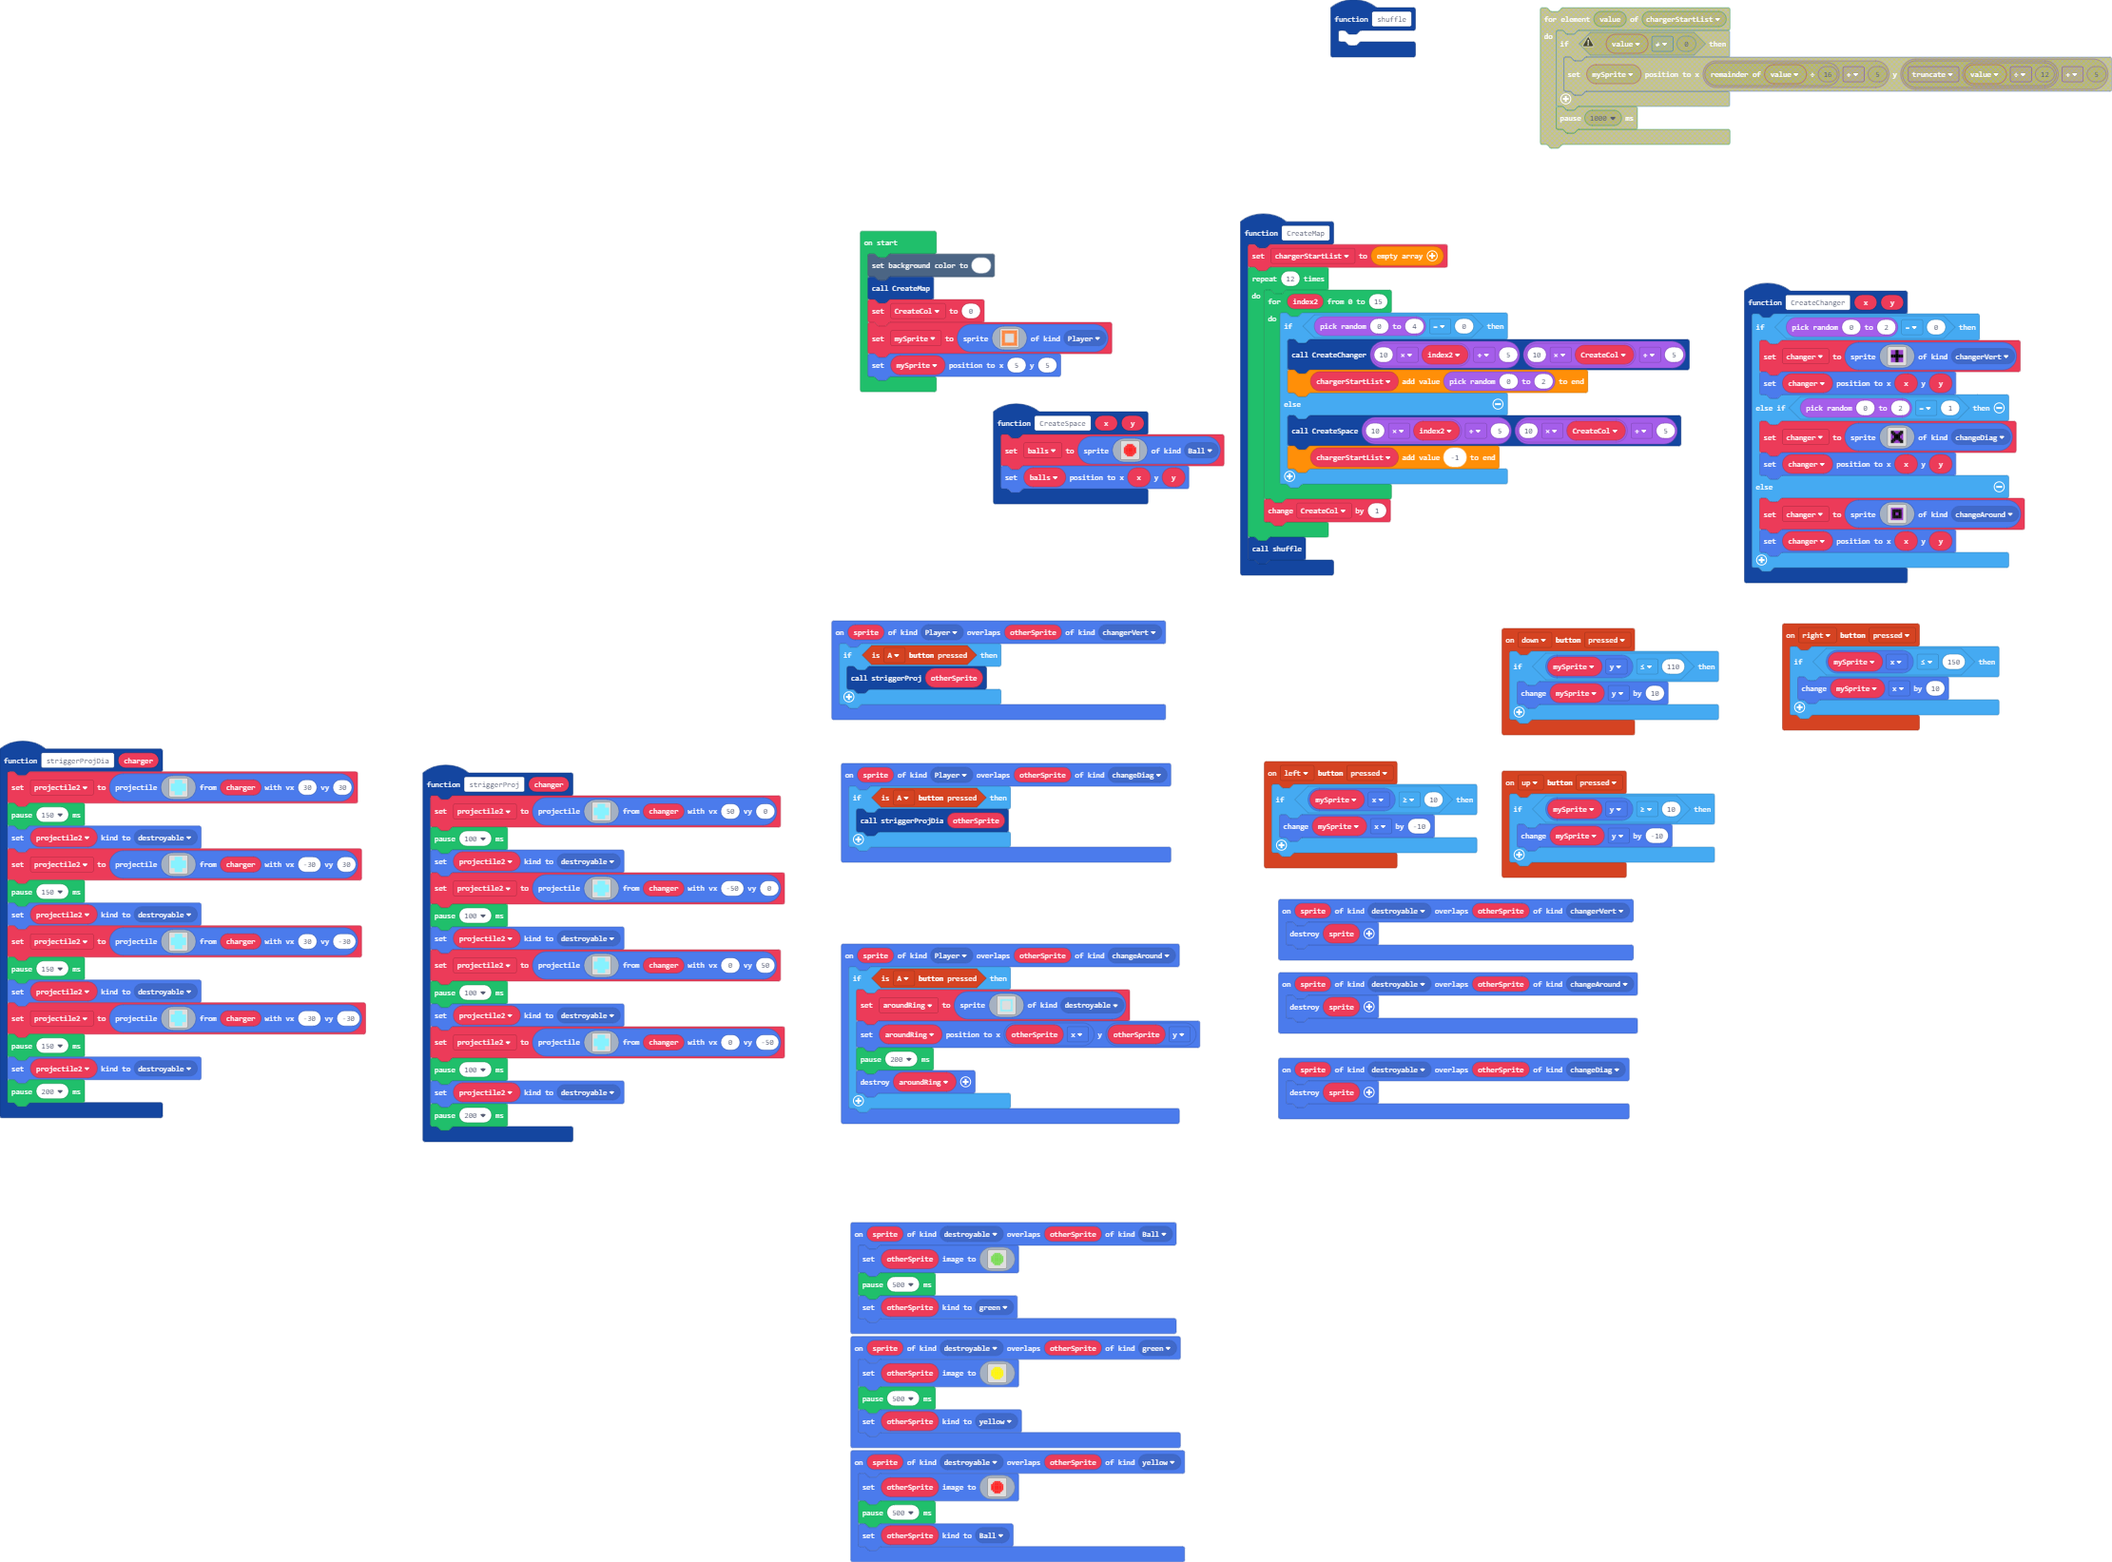
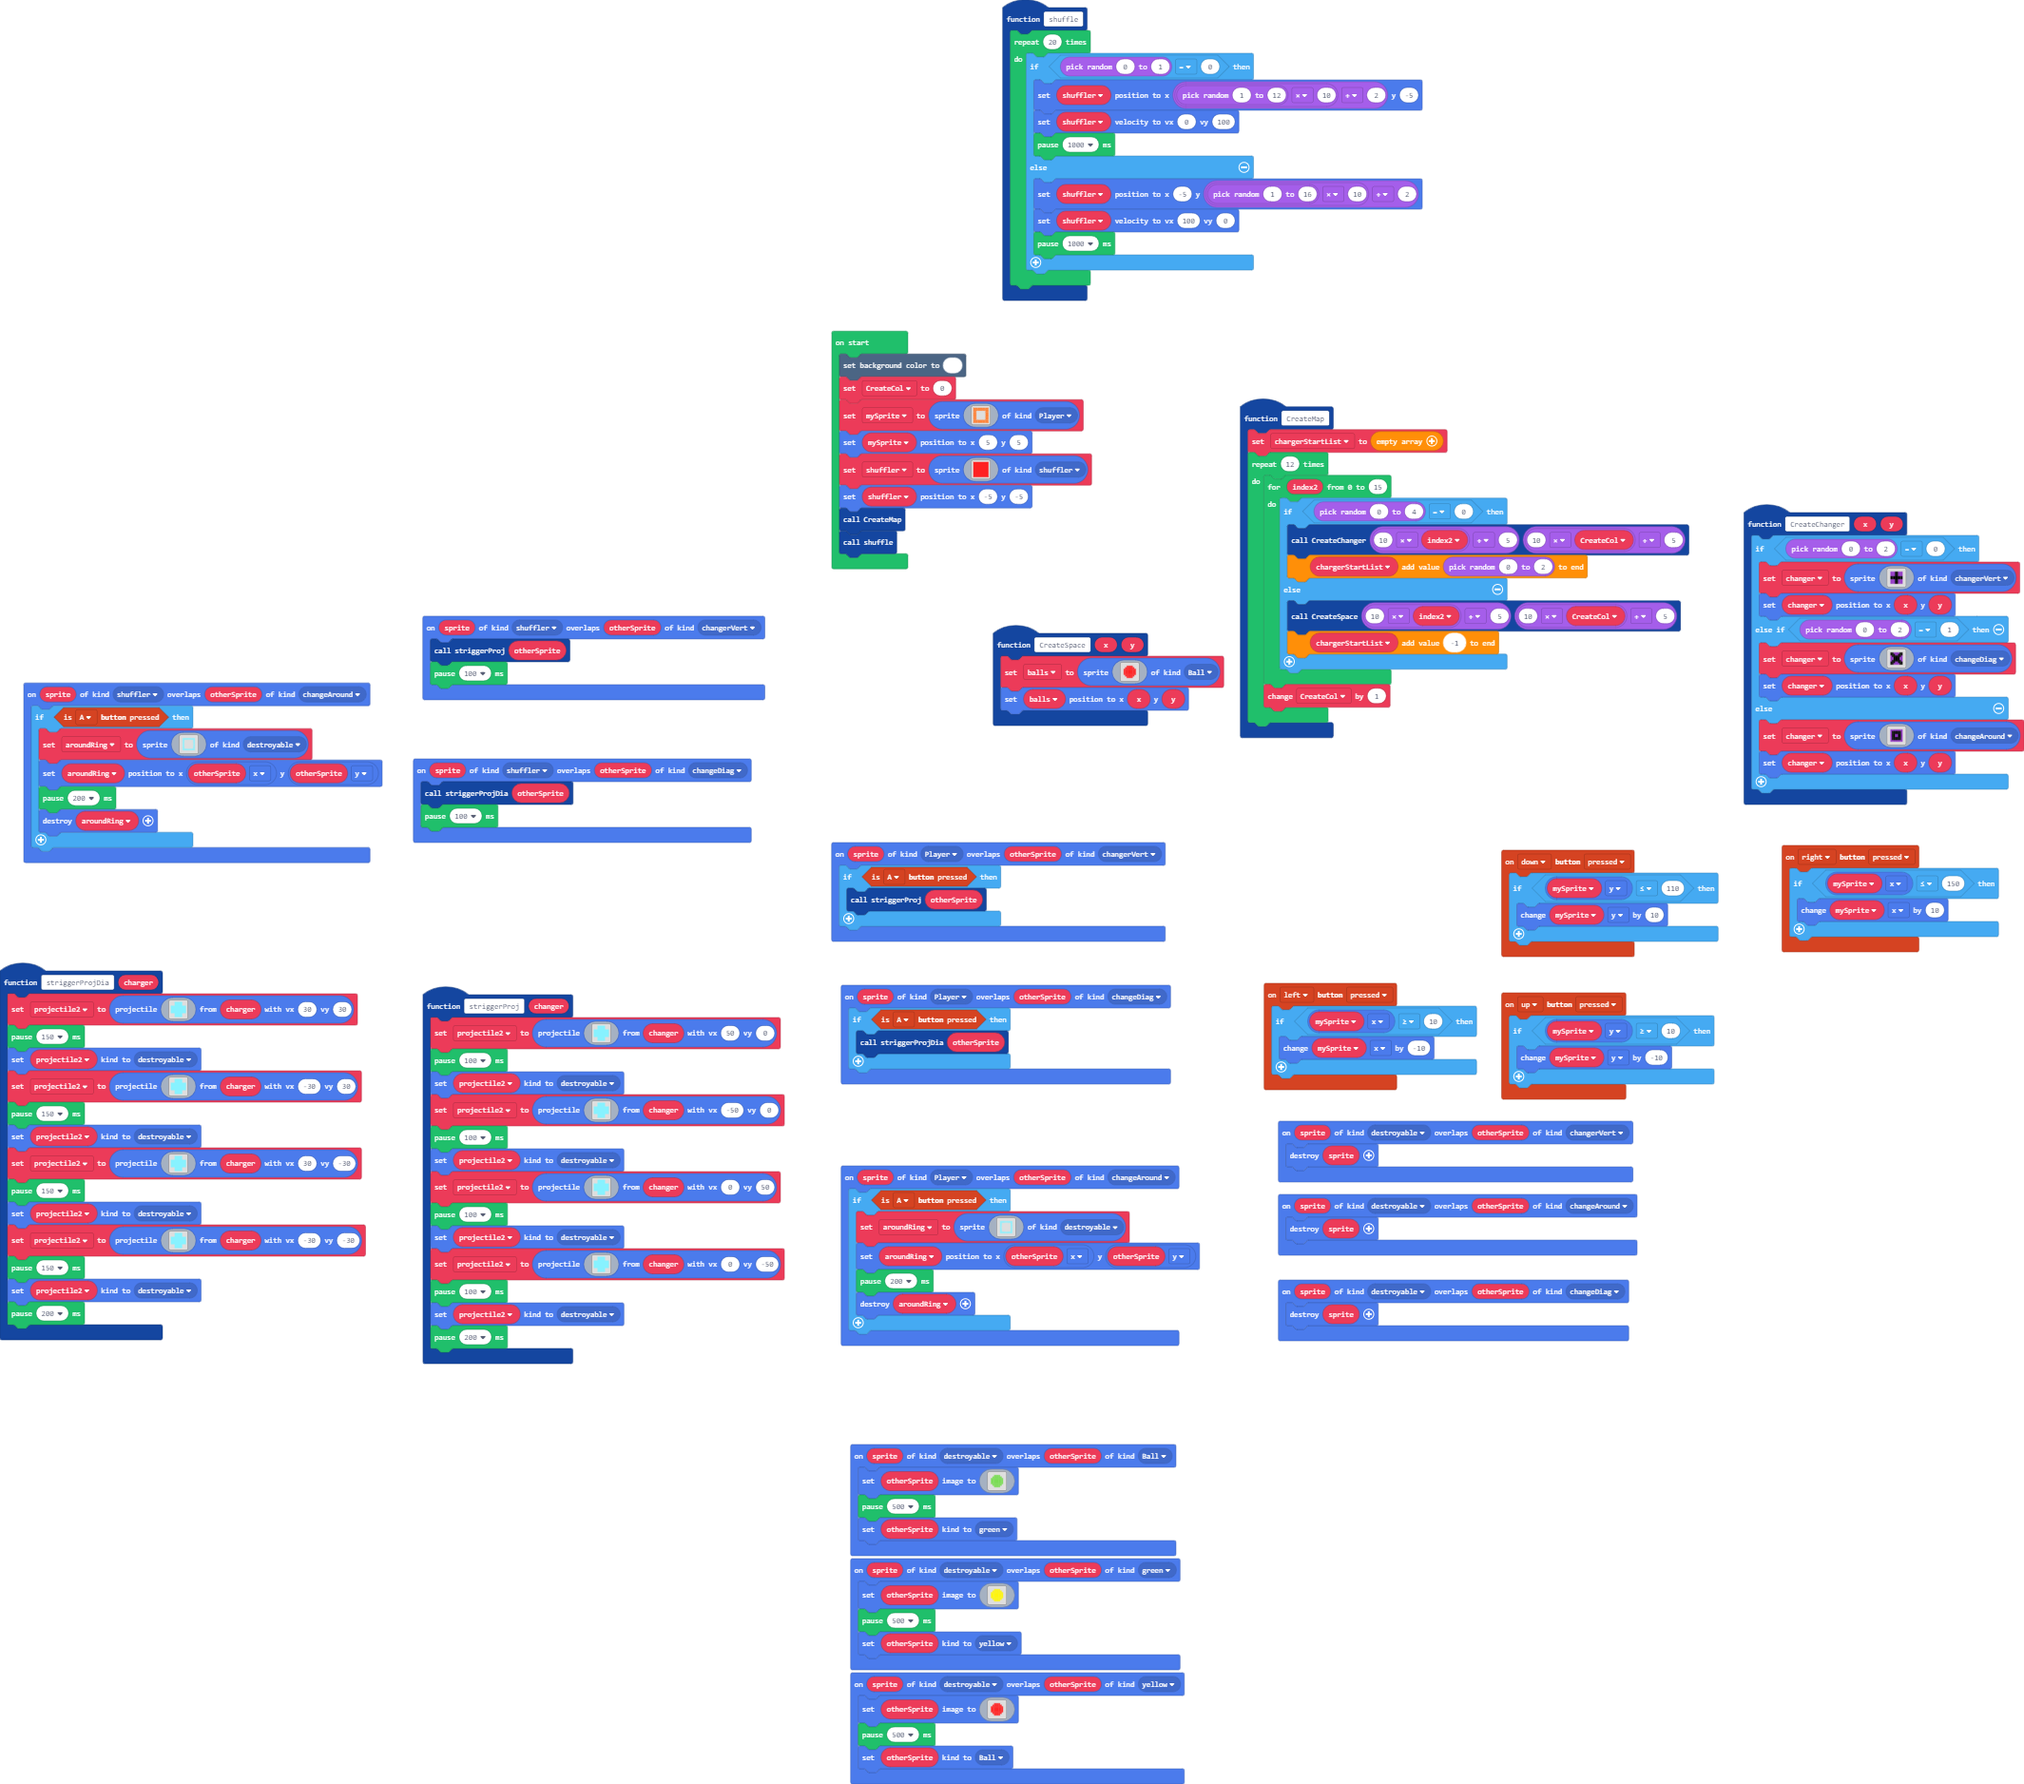
ehhh

diff --git a/main.ts b/main.ts
@@ -6,9 +6,20 @@ namespace SpriteKind {
     export const green = SpriteKind.create()
     export const yellow = SpriteKind.create()
     export const destroyable = SpriteKind.create()
+    export const shuffler = SpriteKind.create()
 }
 function shuffle () {
-	
+    for (let index = 0; index < 20; index++) {
+        if (Math.randomRange(0, 1) == 0) {
+            shuffler.setPosition(Math.randomRange(1, 12) * 10 + 2, -5)
+            shuffler.setVelocity(0, 100)
+            pause(1000)
+        } else {
+            shuffler.setPosition(-5, Math.randomRange(1, 16) * 10 + 2)
+            shuffler.setVelocity(100, 0)
+            pause(1000)
+        }
+    }
 }
 sprites.onOverlap(SpriteKind.destroyable, SpriteKind.green, function (sprite, otherSprite) {
     otherSprite.setImage(img`
@@ -26,41 +37,6 @@ sprites.onOverlap(SpriteKind.destroyable, SpriteKind.green, function (sprite, ot
     pause(500)
     otherSprite.setKind(SpriteKind.yellow)
 })
-function striggerProjDia (charger: Sprite) {
-    projectile2 = sprites.createProjectileFromSprite(img`
-. 9 9 . 
-9 9 9 9 
-9 9 9 9 
-. 9 9 . 
-`, charger, 30, 30)
-    pause(150)
-    projectile2.setKind(SpriteKind.destroyable)
-    projectile2 = sprites.createProjectileFromSprite(img`
-. 9 9 . 
-9 9 9 9 
-9 9 9 9 
-. 9 9 . 
-`, charger, -30, 30)
-    pause(150)
-    projectile2.setKind(SpriteKind.destroyable)
-    projectile2 = sprites.createProjectileFromSprite(img`
-. 9 9 . 
-9 9 9 9 
-9 9 9 9 
-. 9 9 . 
-`, charger, 30, -30)
-    pause(150)
-    projectile2.setKind(SpriteKind.destroyable)
-    projectile2 = sprites.createProjectileFromSprite(img`
-. 9 9 . 
-9 9 9 9 
-9 9 9 9 
-. 9 9 . 
-`, charger, -30, -30)
-    pause(150)
-    projectile2.setKind(SpriteKind.destroyable)
-    pause(200)
-}
 sprites.onOverlap(SpriteKind.Player, SpriteKind.changeAround, function (sprite, otherSprite) {
     if (controller.A.isPressed()) {
         aroundRing = sprites.create(img`
@@ -100,6 +76,49 @@ sprites.onOverlap(SpriteKind.Player, SpriteKind.changeAround, function (sprite, 
         aroundRing.destroy()
     }
 })
+sprites.onOverlap(SpriteKind.shuffler, SpriteKind.changeAround, function (sprite, otherSprite) {
+    if (controller.A.isPressed()) {
+        aroundRing = sprites.create(img`
+. . . . . . . . . . . . . . . . . . . . . . . . . . . . . . 
+. . . . . . . . . . . . . . . . . . . . . . . . . . . . . . 
+. . . . . . . . . . . . . . . . . . . . . . . . . . . . . . 
+. . . 9 9 9 9 9 9 9 9 9 9 9 9 9 9 9 9 9 9 9 9 9 9 9 9 . . . 
+. . . 9 9 9 9 9 9 9 9 9 9 9 9 9 9 9 9 9 9 9 9 9 9 9 9 . . . 
+. . . 9 9 9 9 9 9 9 9 9 9 9 9 9 9 9 9 9 9 9 9 9 9 9 9 . . . 
+. . . 9 9 9 . . . . . . . . . . . . . . . . . . 9 9 9 . . . 
+. . . 9 9 9 . . . . . . . . . . . . . . . . . . 9 9 9 . . . 
+. . . 9 9 9 . . . . . . . . . . . . . . . . . . 9 9 9 . . . 
+. . . 9 9 9 . . . . . . . . . . . . . . . . . . 9 9 9 . . . 
+. . . 9 9 9 . . . . . . . . . . . . . . . . . . 9 9 9 . . . 
+. . . 9 9 9 . . . . . . . . . . . . . . . . . . 9 9 9 . . . 
+. . . 9 9 9 . . . . . . . . . . . . . . . . . . 9 9 9 . . . 
+. . . 9 9 9 . . . . . . . . . . . . . . . . . . 9 9 9 . . . 
+. . . 9 9 9 . . . . . . . . . . . . . . . . . . 9 9 9 . . . 
+. . . 9 9 9 . . . . . . . . . . . . . . . . . . 9 9 9 . . . 
+. . . 9 9 9 . . . . . . . . . . . . . . . . . . 9 9 9 . . . 
+. . . 9 9 9 . . . . . . . . . . . . . . . . . . 9 9 9 . . . 
+. . . 9 9 9 . . . . . . . . . . . . . . . . . . 9 9 9 . . . 
+. . . 9 9 9 . . . . . . . . . . . . . . . . . . 9 9 9 . . . 
+. . . 9 9 9 . . . . . . . . . . . . . . . . . . 9 9 9 . . . 
+. . . 9 9 9 . . . . . . . . . . . . . . . . . . 9 9 9 . . . 
+. . . 9 9 9 . . . . . . . . . . . . . . . . . . 9 9 9 . . . 
+. . . 9 9 9 . . . . . . . . . . . . . . . . . . 9 9 9 . . . 
+. . . 9 9 9 9 9 9 9 9 9 9 9 9 9 9 9 9 9 9 9 9 9 9 9 9 . . . 
+. . . 9 9 9 9 9 9 9 9 9 9 9 9 9 9 9 9 9 9 9 9 9 9 9 9 . . . 
+. . . 9 9 9 9 9 9 9 9 9 9 9 9 9 9 9 9 9 9 9 9 9 9 9 9 . . . 
+. . . . . . . . . . . . . . . . . . . . . . . . . . . . . . 
+. . . . . . . . . . . . . . . . . . . . . . . . . . . . . . 
+. . . . . . . . . . . . . . . . . . . . . . . . . . . . . . 
+`, SpriteKind.destroyable)
+        aroundRing.setPosition(otherSprite.x, otherSprite.y)
+        pause(200)
+        aroundRing.destroy()
+    }
+})
+sprites.onOverlap(SpriteKind.shuffler, SpriteKind.changeDiag, function (sprite, otherSprite) {
+    striggerProjDia(otherSprite)
+    pause(100)
+})
 controller.left.onEvent(ControllerButtonEvent.Pressed, function () {
     if (mySprite.x >= 10) {
         mySprite.x += -10
@@ -125,6 +144,41 @@ function CreateSpace (x: number, y: number) {
 `, SpriteKind.Ball)
     balls.setPosition(x, y)
 }
+function striggerProjDia (charger: Sprite) {
+    projectile2 = sprites.createProjectileFromSprite(img`
+. 9 9 . 
+9 9 9 9 
+9 9 9 9 
+. 9 9 . 
+`, charger, 30, 30)
+    pause(150)
+    projectile2.setKind(SpriteKind.destroyable)
+    projectile2 = sprites.createProjectileFromSprite(img`
+. 9 9 . 
+9 9 9 9 
+9 9 9 9 
+. 9 9 . 
+`, charger, -30, 30)
+    pause(150)
+    projectile2.setKind(SpriteKind.destroyable)
+    projectile2 = sprites.createProjectileFromSprite(img`
+. 9 9 . 
+9 9 9 9 
+9 9 9 9 
+. 9 9 . 
+`, charger, 30, -30)
+    pause(150)
+    projectile2.setKind(SpriteKind.destroyable)
+    projectile2 = sprites.createProjectileFromSprite(img`
+. 9 9 . 
+9 9 9 9 
+9 9 9 9 
+. 9 9 . 
+`, charger, -30, -30)
+    pause(150)
+    projectile2.setKind(SpriteKind.destroyable)
+    pause(200)
+}
 sprites.onOverlap(SpriteKind.Player, SpriteKind.changeDiag, function (sprite, otherSprite) {
     if (controller.A.isPressed()) {
         striggerProjDia(otherSprite)
@@ -149,7 +203,6 @@ function CreateMap () {
         }
         CreateCol += 1
     }
-    shuffle()
 }
 controller.right.onEvent(ControllerButtonEvent.Pressed, function () {
     if (mySprite.x <= 150) {
@@ -207,6 +260,10 @@ function striggerProj (changer: Sprite) {
     projectile2.setKind(SpriteKind.destroyable)
     pause(200)
 }
+sprites.onOverlap(SpriteKind.shuffler, SpriteKind.changerVert, function (sprite, otherSprite) {
+    striggerProj(otherSprite)
+    pause(100)
+})
 function CreateChanger (x: number, y: number) {
     if (Math.randomRange(0, 2) == 0) {
         changer = sprites.create(img`
@@ -284,13 +341,13 @@ sprites.onOverlap(SpriteKind.destroyable, SpriteKind.changerVert, function (spri
 })
 let changer: Sprite = null
 let chargerStartList: number[] = []
+let projectile2: Sprite = null
 let balls: Sprite = null
 let aroundRing: Sprite = null
-let projectile2: Sprite = null
+let shuffler: Sprite = null
 let mySprite: Sprite = null
 let CreateCol = 0
 scene.setBackgroundColor(1)
-CreateMap()
 CreateCol = 0
 mySprite = sprites.create(img`
 4 4 4 4 4 4 4 4 4 4 
@@ -305,3 +362,10 @@ mySprite = sprites.create(img`
 4 4 4 4 4 4 4 4 4 4 
 `, SpriteKind.Player)
 mySprite.setPosition(5, 5)
+shuffler = sprites.create(img`
+2 2 
+2 2 
+`, SpriteKind.shuffler)
+shuffler.setPosition(-5, -5)
+CreateMap()
+shuffle()
